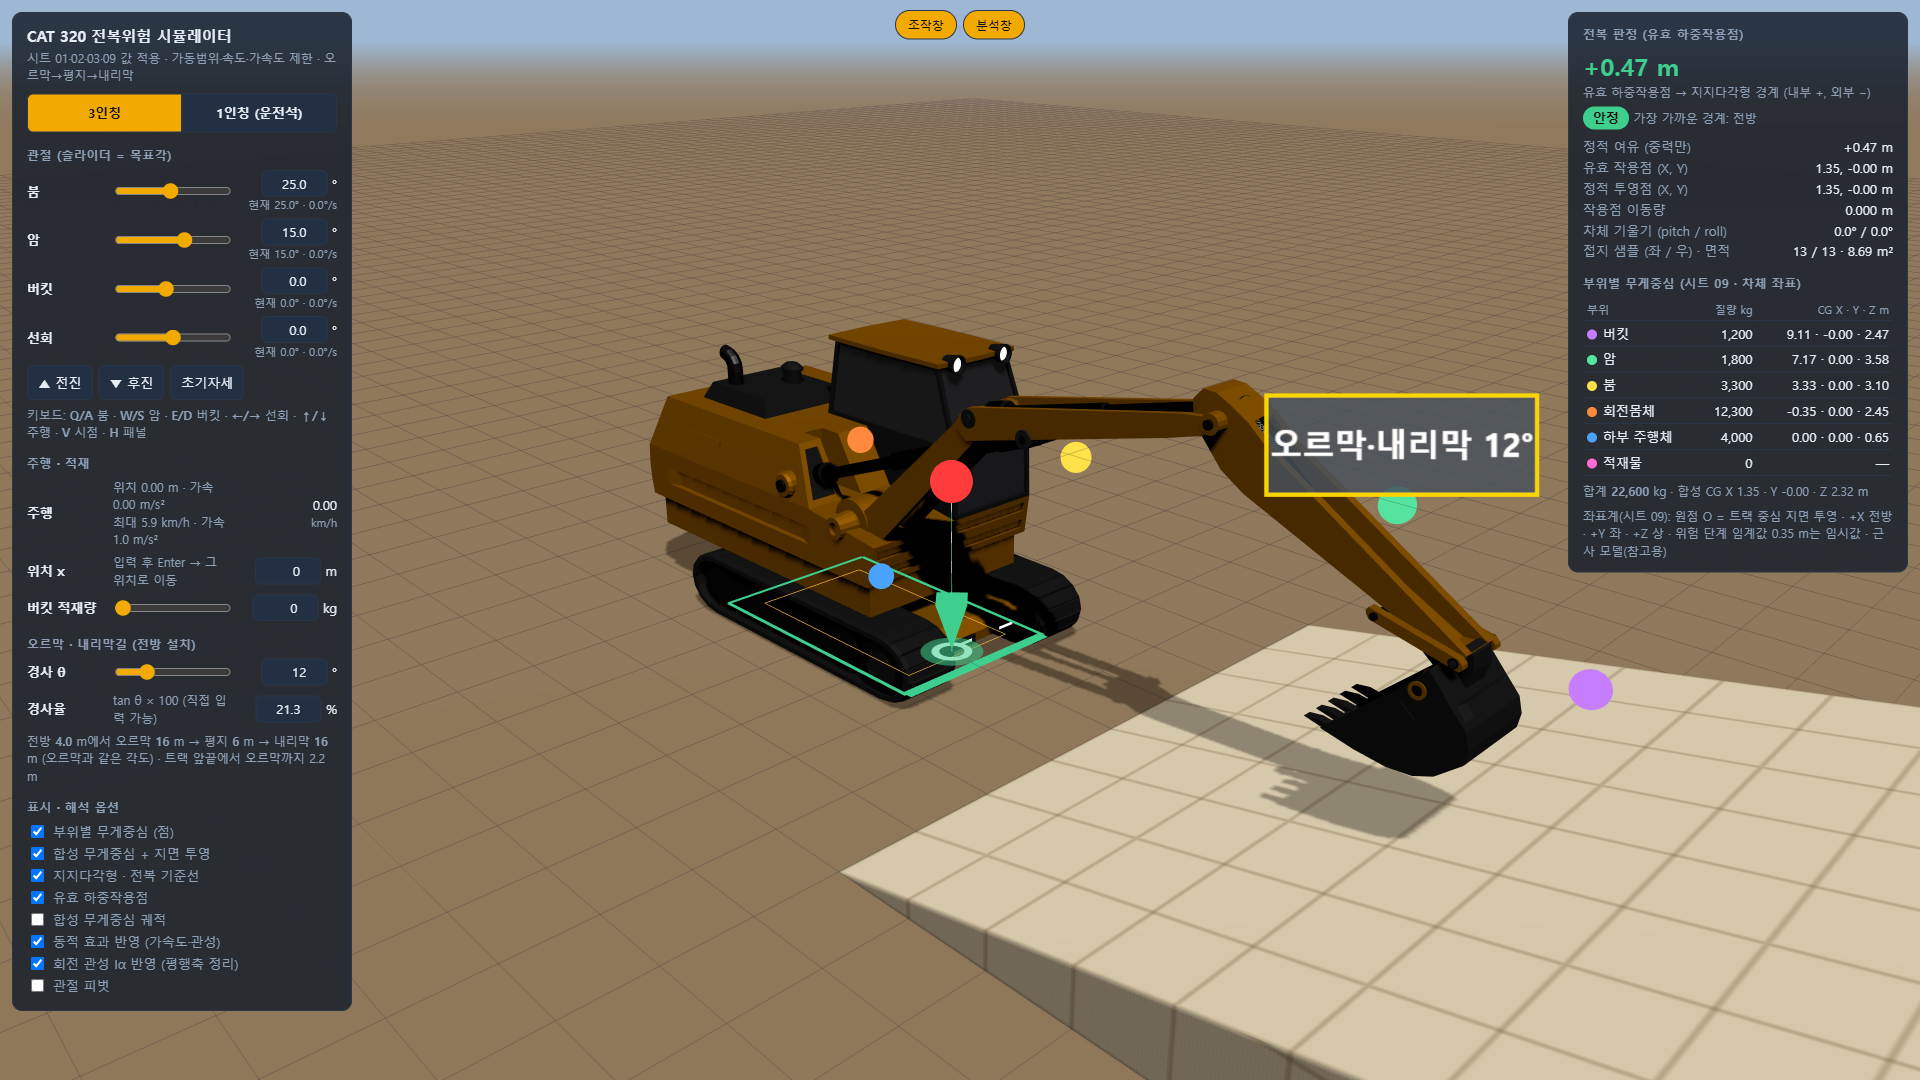
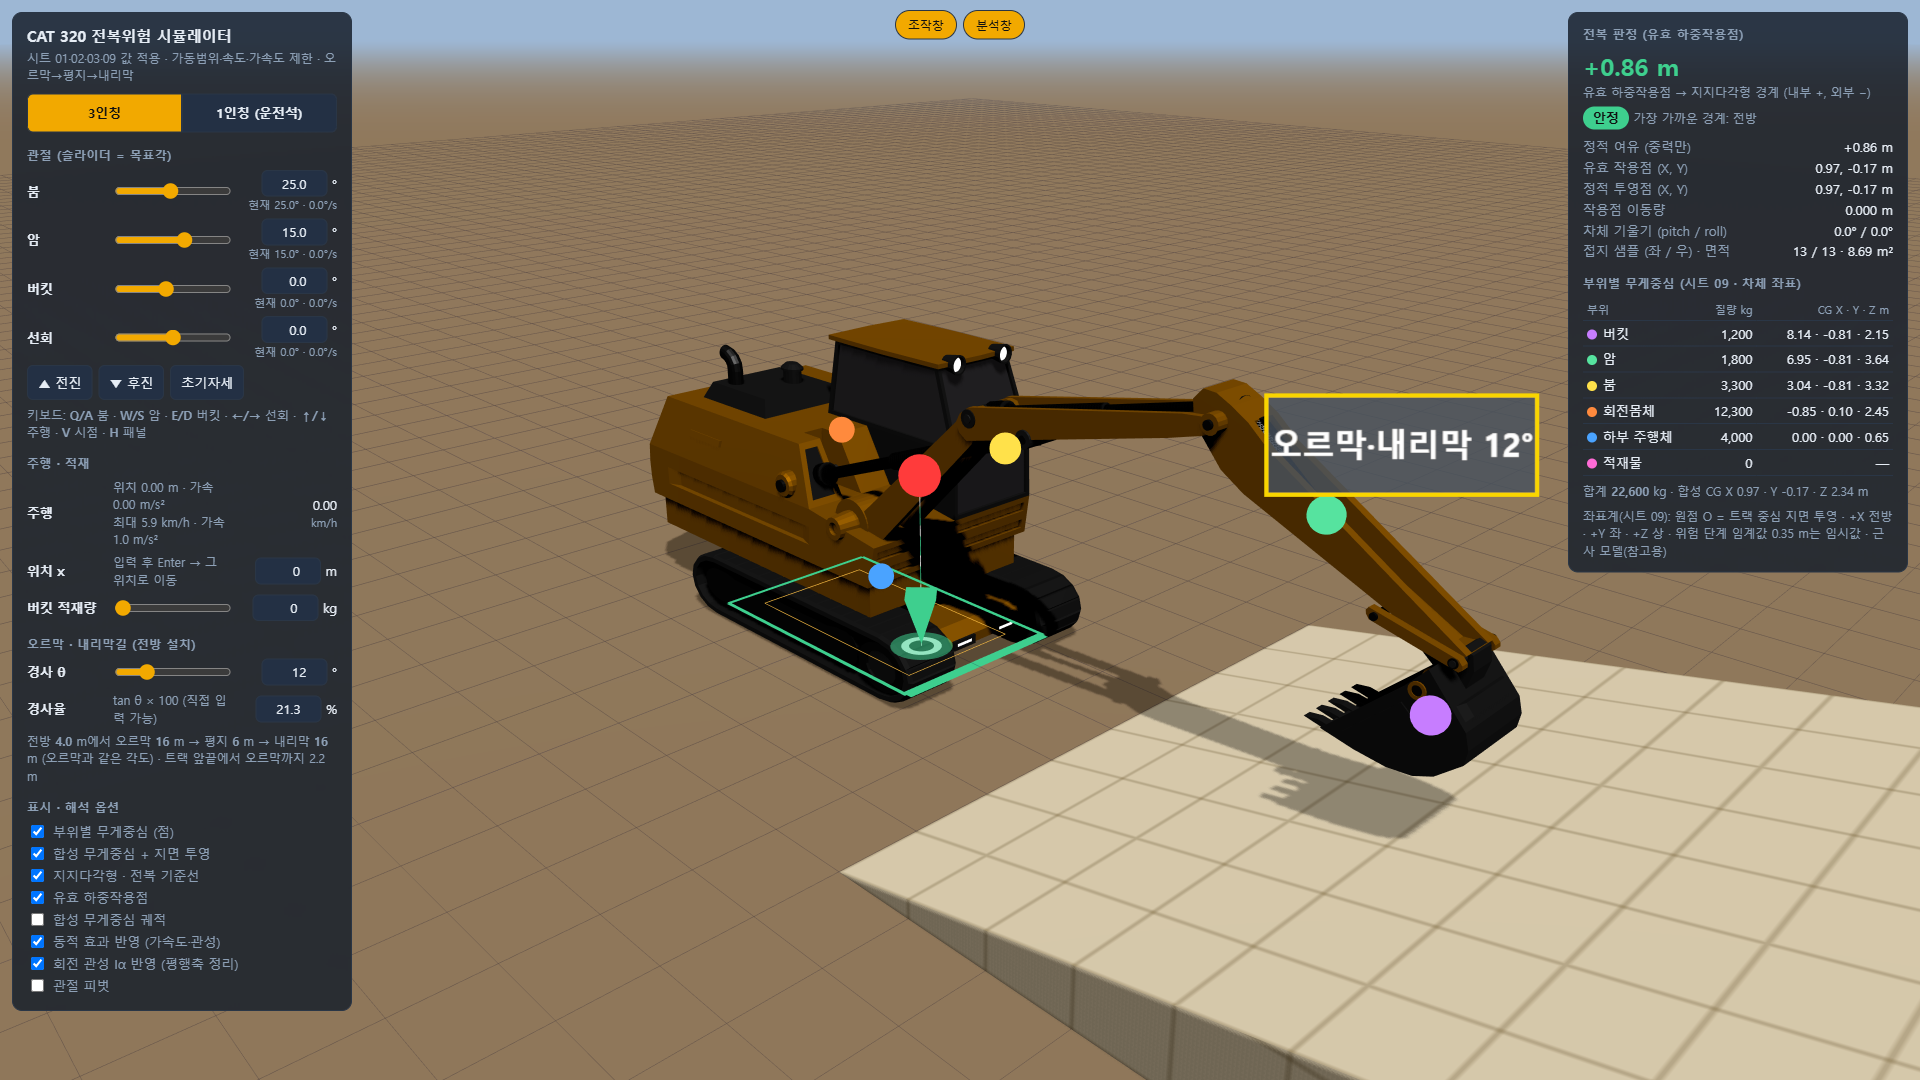
진짜 최종(무게중심 수정판) 기준으로 사진 7장·대본 수치·제작 가이드 갱신

diff --git a/docs/PPT_제작가이드.md b/docs/PPT_제작가이드.md
@@ -9,16 +9,16 @@
 |---|---|---|
 | `qr_simulator.png` | 시뮬레이터 주소 QR (흑백, 판독 확인 완료) | 결과물 시연 장, QnA 장 |
 | `qr_simulator_card.png` | QR + "시뮬레이터 직접 해 보기" + 주소가 들어간 노랑 카드 | 감사합니다 장 또는 QnA 장 오른쪽 아래 |
-| `sim_01_평지_초기자세_안정.png` | 평지 초기 자세, 여유 +0.47 m 안정 (양쪽 패널 보임) | 9장 「위험도 실시간 표시」 — 오른쪽 분석창 설명용 |
-| `sim_02_평지_팔옆으로_1500kg_주의.png` | 팔을 옆으로 뻗고 1,500 kg, +0.01 m 주의 | 정확도 확인 장 (짐을 늘리면 위험 증가) |
-| `sim_03a_오르막10도_팔들고_내리막방향_안정.png` | 오르막 10°, 팔 듦, 내리막 방향, +0.40 m 안정 | 8장 「위험 단계」 — 03b와 나란히 |
-| `sim_03b_오르막18도_팔들고_내리막방향_전복위험.png` | 같은 자세 오르막 18°, −0.07 m 전복 위험 | 8장 — 03a와 나란히 ("8도 차이로 판정이 바뀐다") |
+| `sim_01_평지_초기자세_안정.png` | 평지 초기 자세, 여유 +0.86 m 안정 (양쪽 패널 보임) | 9장 「위험도 실시간 표시」 — 오른쪽 분석창 설명용 |
+| `sim_02_평지_팔옆으로_1500kg_주의.png` | 팔을 옆으로 뻗고 1,500 kg, +0.29 m 주의 | 정확도 확인 장 (짐을 늘리면 위험 증가) |
+| `sim_03a_오르막15도_팔들고_내리막방향_안정.png` | 오르막 15°, 팔 듦, 내리막 방향, +0.45 m 안정 | 8장 「위험 단계」 — 03b와 나란히 |
+| `sim_03b_오르막25도_팔들고_내리막방향_전복위험.png` | 같은 자세 오르막 25°, −0.16 m 전복 위험 | 8장 — 03a와 나란히 ("10도 차이로 판정이 바뀐다") |
 | `sim_04a_1인칭_오르막15도_패널.png` | 운전석 시점, 오르막 15° (패널 보임) | 1인칭 설명 장 |
 | `sim_04b_1인칭_오르막15도_깨끗한화면.png` | 운전석 시점, 패널 없음 — 땅이 평평해 보임 | 1인칭 설명 장(큰 사진) |
-| `sim_05_3인칭_오르막18도_전복위험_깨끗한화면.png` | 3인칭, 패널 없이 전복 위험 장면 | 3장 「무엇을, 왜」 대표 사진 또는 표지 보조 |
+| `sim_05_3인칭_오르막25도_전복위험_깨끗한화면.png` | 3인칭, 패널 없이 전복 위험 장면 | 3장 「무엇을, 왜」 대표 사진 또는 표지 보조 |
 
-- 모두 1920×1080. Canva에 업로드 → 끌어다 놓기. 사진 위에 짧은 캡션(예: "오르막 18° · 내리막 방향 → 전복 위험")을 얹으면 좋다.
-- 수치는 최종(내리막길 적용) 시뮬레이터에서 직접 잰 값이다.
+- 모두 1920×1080. Canva에 업로드 → 끌어다 놓기. 사진 위에 짧은 캡션(예: "오르막 25° · 내리막 방향 → 전복 위험")을 얹으면 좋다.
+- 수치는 진짜 최종(무게중심 수정판) 시뮬레이터에서 직접 잰 값이다.
 
 ## 2. 슬라이드 배치 (수정안 13장 + 결과물 시연 1장 = 14장)
 
@@ -26,7 +26,7 @@
 |---|---|
 | 3 무엇을, 왜 만드나요 | 오른쪽에 `sim_05` 작게 |
 | 4 AI툴 소개 | 로고 + "AI는 어디에 쓰나요" 3줄 (수정안) |
-| 8 위험 단계 표시 방법 | 아래쪽에 `sim_03a` · `sim_03b` 나란히, 가운데 화살표 "10° → 18°" |
+| 8 위험 단계 표시 방법 | 아래쪽에 `sim_03a` · `sim_03b` 나란히, 가운데 화살표 "15° → 25°" |
 | 9 위험도 실시간 표시 방법 | `sim_01` (오른쪽 분석창에 동그라미 표시) |
 | **새 장 「결과물 시연」** (9장 뒤) | **영상**(아래 3절) 크게 + 오른쪽 아래 `qr_simulator.png` |
 | 10 정확한지 어떻게 확인하나요 | 문구 3줄 + `sim_02` |
@@ -40,10 +40,10 @@
 
 | 순서 | 클립 | 길이 | 찍는 방법 | 보여줄 메시지 |
 |---|---|---|---|---|
-| ★1 | **방향 하나로 바뀌는 판정** | 20초 | 오르막 18° 위에서 붐 60°·암 30°·버킷 45°로 팔을 든 채, 선회를 0° → 180°로 천천히 돌림 (← → 키) | 여유가 +1.19 m(안정) → 주의 → −0.07 m(전복 위험)으로 떨어지고, 바닥 화살표가 지지영역 밖으로 빨갛게 나감 |
+| ★1 | **방향 하나로 바뀌는 판정** | 20초 | 오르막 25° 위에서 붐 60°·암 30°·버킷 45°로 팔을 든 채, 선회를 0° → 180°로 천천히 돌림 (← → 키) | 여유가 +0.95 m(안정) → 주의 → −0.16 m(전복 위험)으로 떨어지고, 바닥 화살표가 지지영역 밖으로 빨갛게 나감 |
 | 2 | 오르막 진입 | 15초 | 평지에서 오르막(15~18°)으로 전진(↑ 키). 오른쪽 패널의 '차체 기울기'와 '접지 샘플'이 변하는 순간 | 땅에 닿는 점이 바뀌면 지지영역도 다시 계산된다 |
-| 3 | 짐을 늘리면 | 10~15초 | 평지, 팔을 옆으로 뻗은 자세(붐 0°, 암 −60°, 선회 90°)에서 버킷 적재량 0 → 1,500 kg | 여유 +0.20 m(주의) → +0.01 m(경계선) |
-| 4 | 급하게 돌리면 | 15초 | 평지, 적재 1,000 kg, 팔 옆으로 뻗은 채 선회를 빠르게 | '정적 여유'(중력만)와 맨 위 '유효' 여유가 벌어짐 — 움직이면 더 위험 |
+| 3 | 짐을 늘리면 | 10~15초 | 평지, 팔을 옆으로 뻗은 자세(붐 0°, 암 −60°, 선회 90°)에서 버킷 적재량 0 → 1,500 kg | 여유 +0.50 m(안정) → +0.29 m(주의) |
+| 4 | 급하게 멈추면 | 15초 | 평지, 적재 1,500 kg, 팔을 앞으로 높이 든 채(붐 60°, 암 30°) 최고속도로 전진하다 ↑ 키를 떼서 정지 | 정지 순간 맨 위 '유효' 여유가 0.87 m → 0.53 m로 줄어듦 — 움직이면 더 위험 (급선회는 차이가 작아 비추천) |
 | 5 | 운전석 시점 | 10초 | V 키로 1인칭 전환, 마우스로 둘러보기 (오르막 위) | 운전석에서는 기울기가 잘 안 느껴진다 |
 
 ### 녹화 방법
@@ -51,7 +51,7 @@
 - 도구: Windows `Win + Alt + R`(Xbox Game Bar) 또는 OBS
 - 패널: 위쪽 「조작창」 버튼으로 왼쪽 패널을 숨기고, 숫자가 보이도록 **오른쪽 「분석창」은 켜 둔다** (H 키는 둘 다 숨김)
 - 조작: 키보드로 천천히. 각 클립 끝에 판정 배지(안정/주의/전복 위험)가 보이는 상태로 2~3초 멈춤
-- 소리: 넣지 않음. 편집 때 자막만 (예: "18° · 내리막 방향 → 전복 위험")
+- 소리: 넣지 않음. 편집 때 자막만 (예: "25° · 내리막 방향 → 전복 위험")
 - 발표장 인터넷이 불안하면 라이브 데모 대신 이 영상을 튼다
 
 ## 4. 발표 전 확인 (중요)
@@ -59,6 +59,6 @@
 | 항목 | 상태 |
 |---|---|
 | QR 주소 | `https://pimanguk.github.io/heavy-equipment-rollover/` — 판독 확인 완료 |
-| **QR이 여는 시뮬레이터 버전** | **아직 이전 버전이 올라가 있음** → 최종(내리막길 적용) 버전으로 교체해야 QR로 연 화면이 영상·사진과 같아짐 |
+| **QR이 여는 시뮬레이터 버전** | **아직 이전 버전이 올라가 있음** → 진짜 최종(무게중심 수정판)으로 교체해야 QR로 연 화면이 영상·사진과 같아짐 |
 | 부품 질량 | 최종 시뮬레이터는 팀 시트 질량(버킷 1,200 / 암 1,800 / 붐 3,300 / 회전몸체 12,300 / 하부 4,000 kg) 사용. 사진·영상 수치도 이 기준 |
 | 위험 단계 기준 0.35 m | 임시값 — 발표 때 그렇게 말할 것 |
